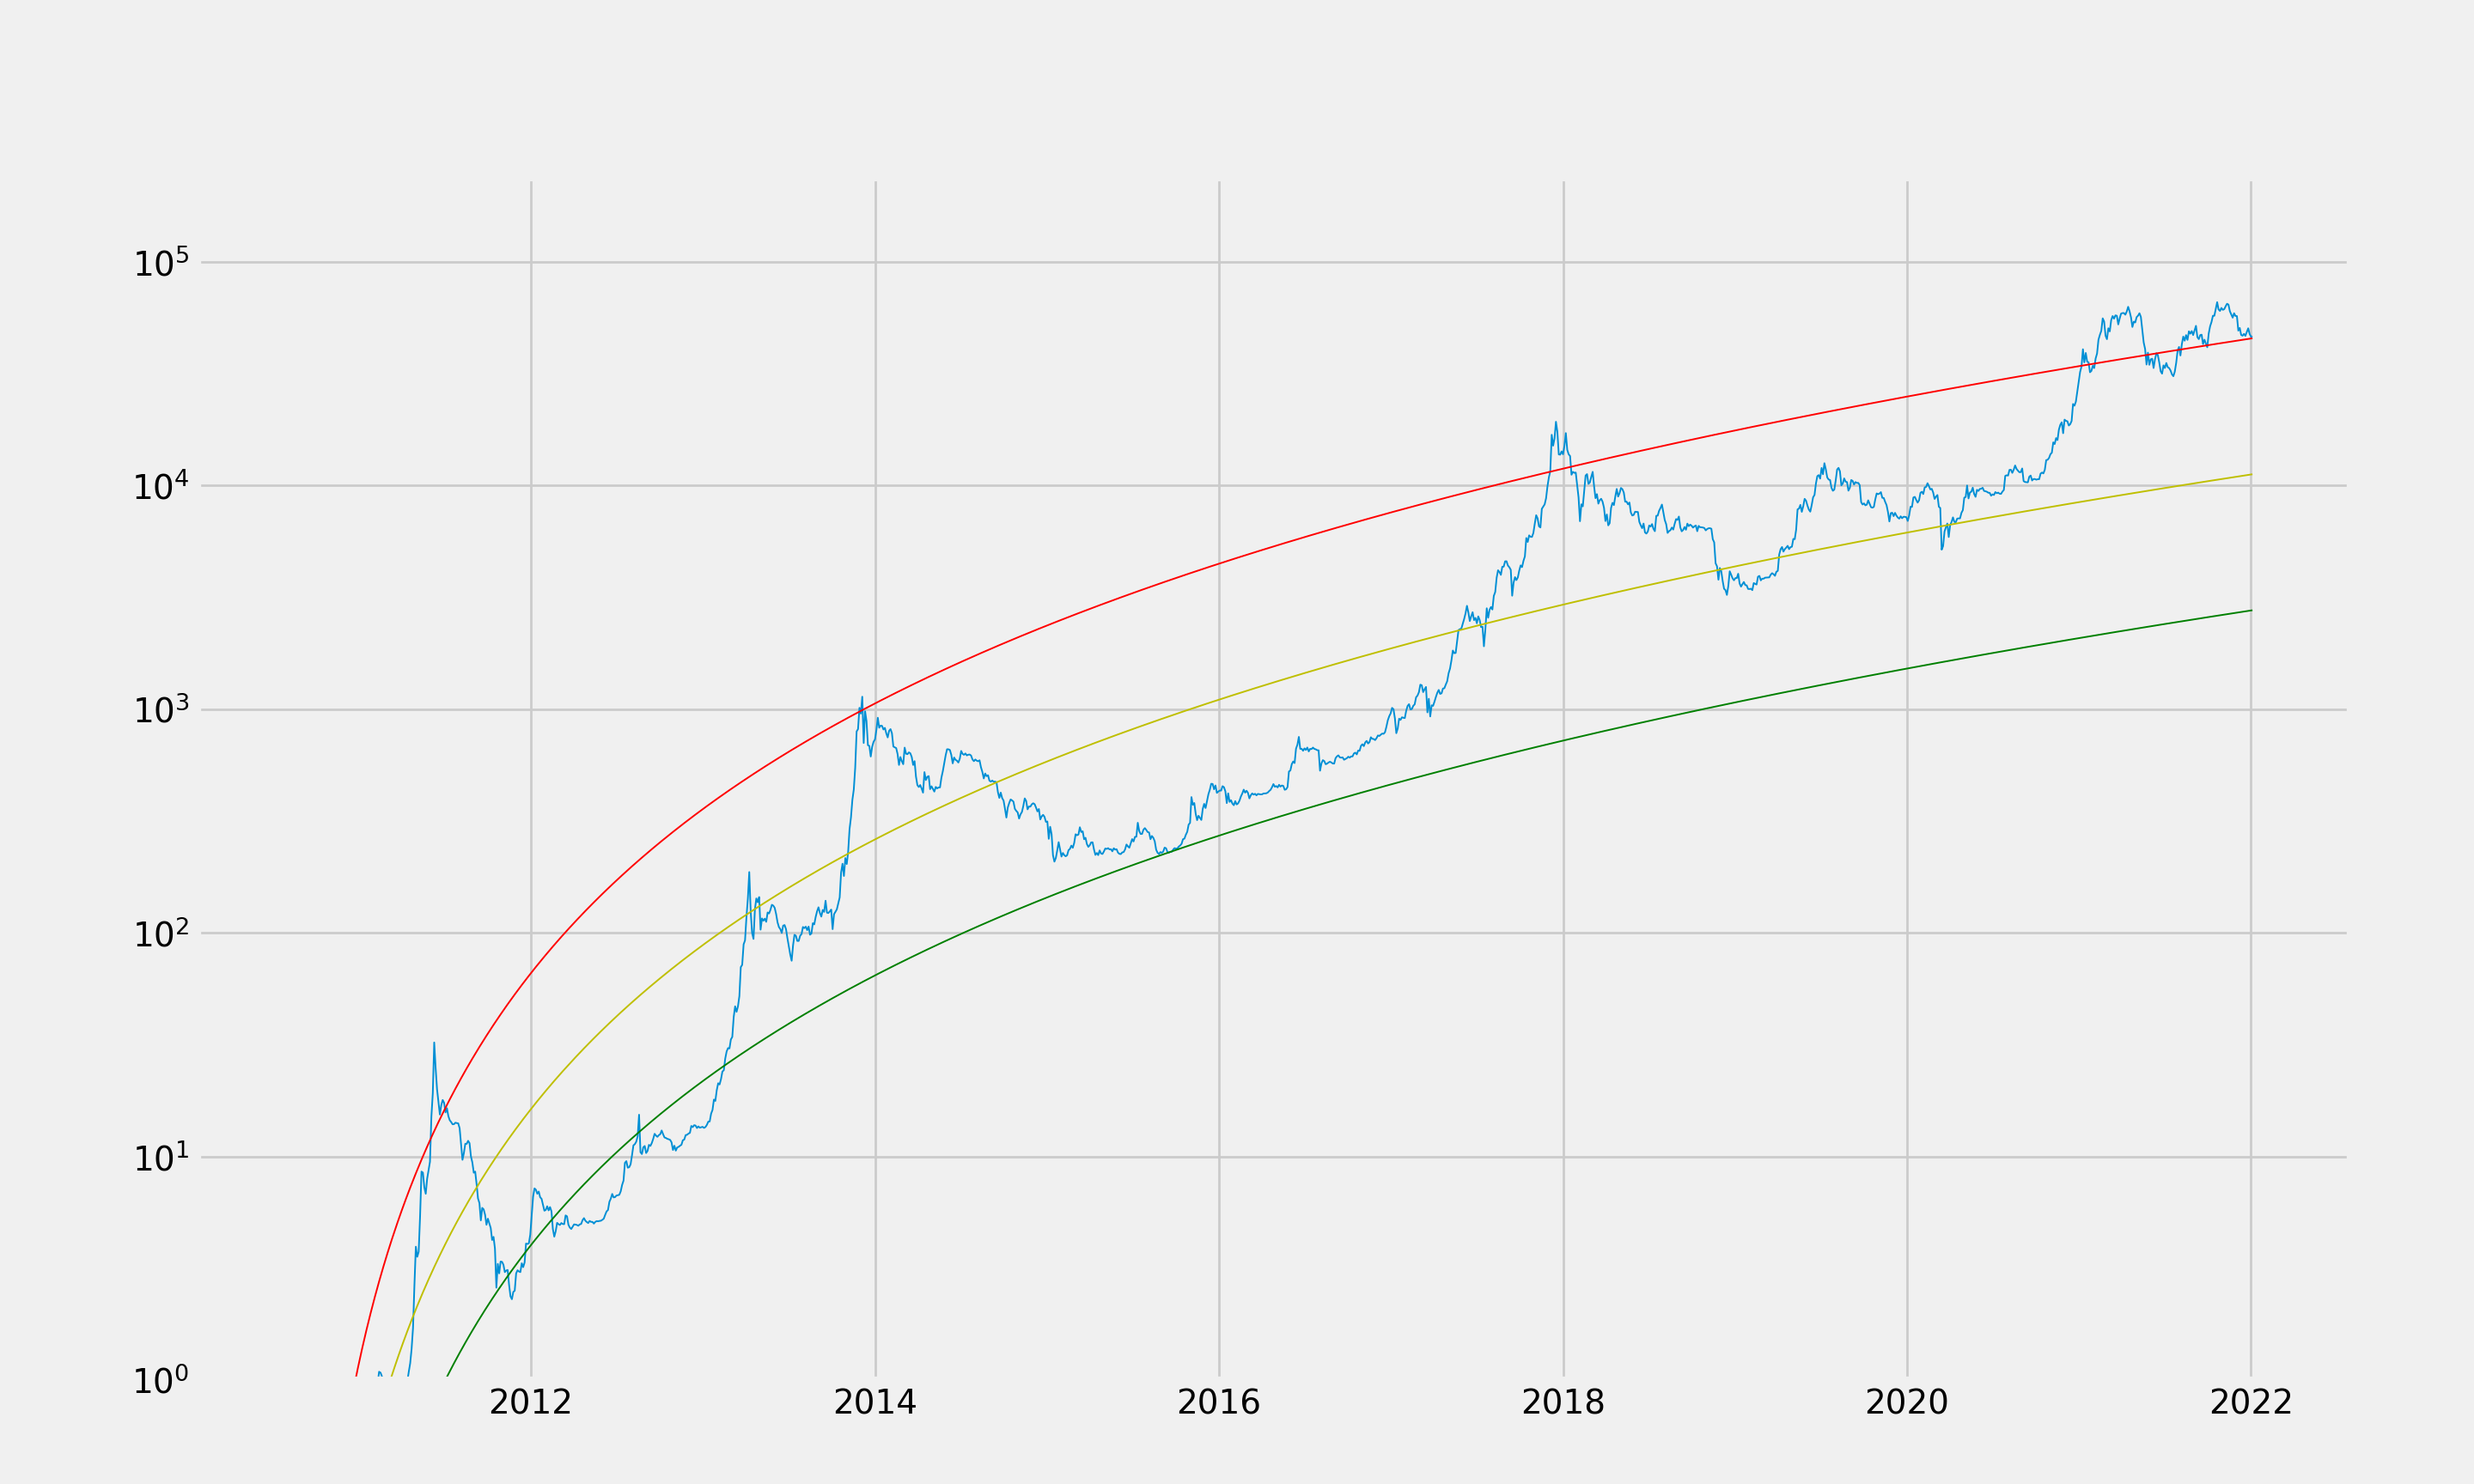
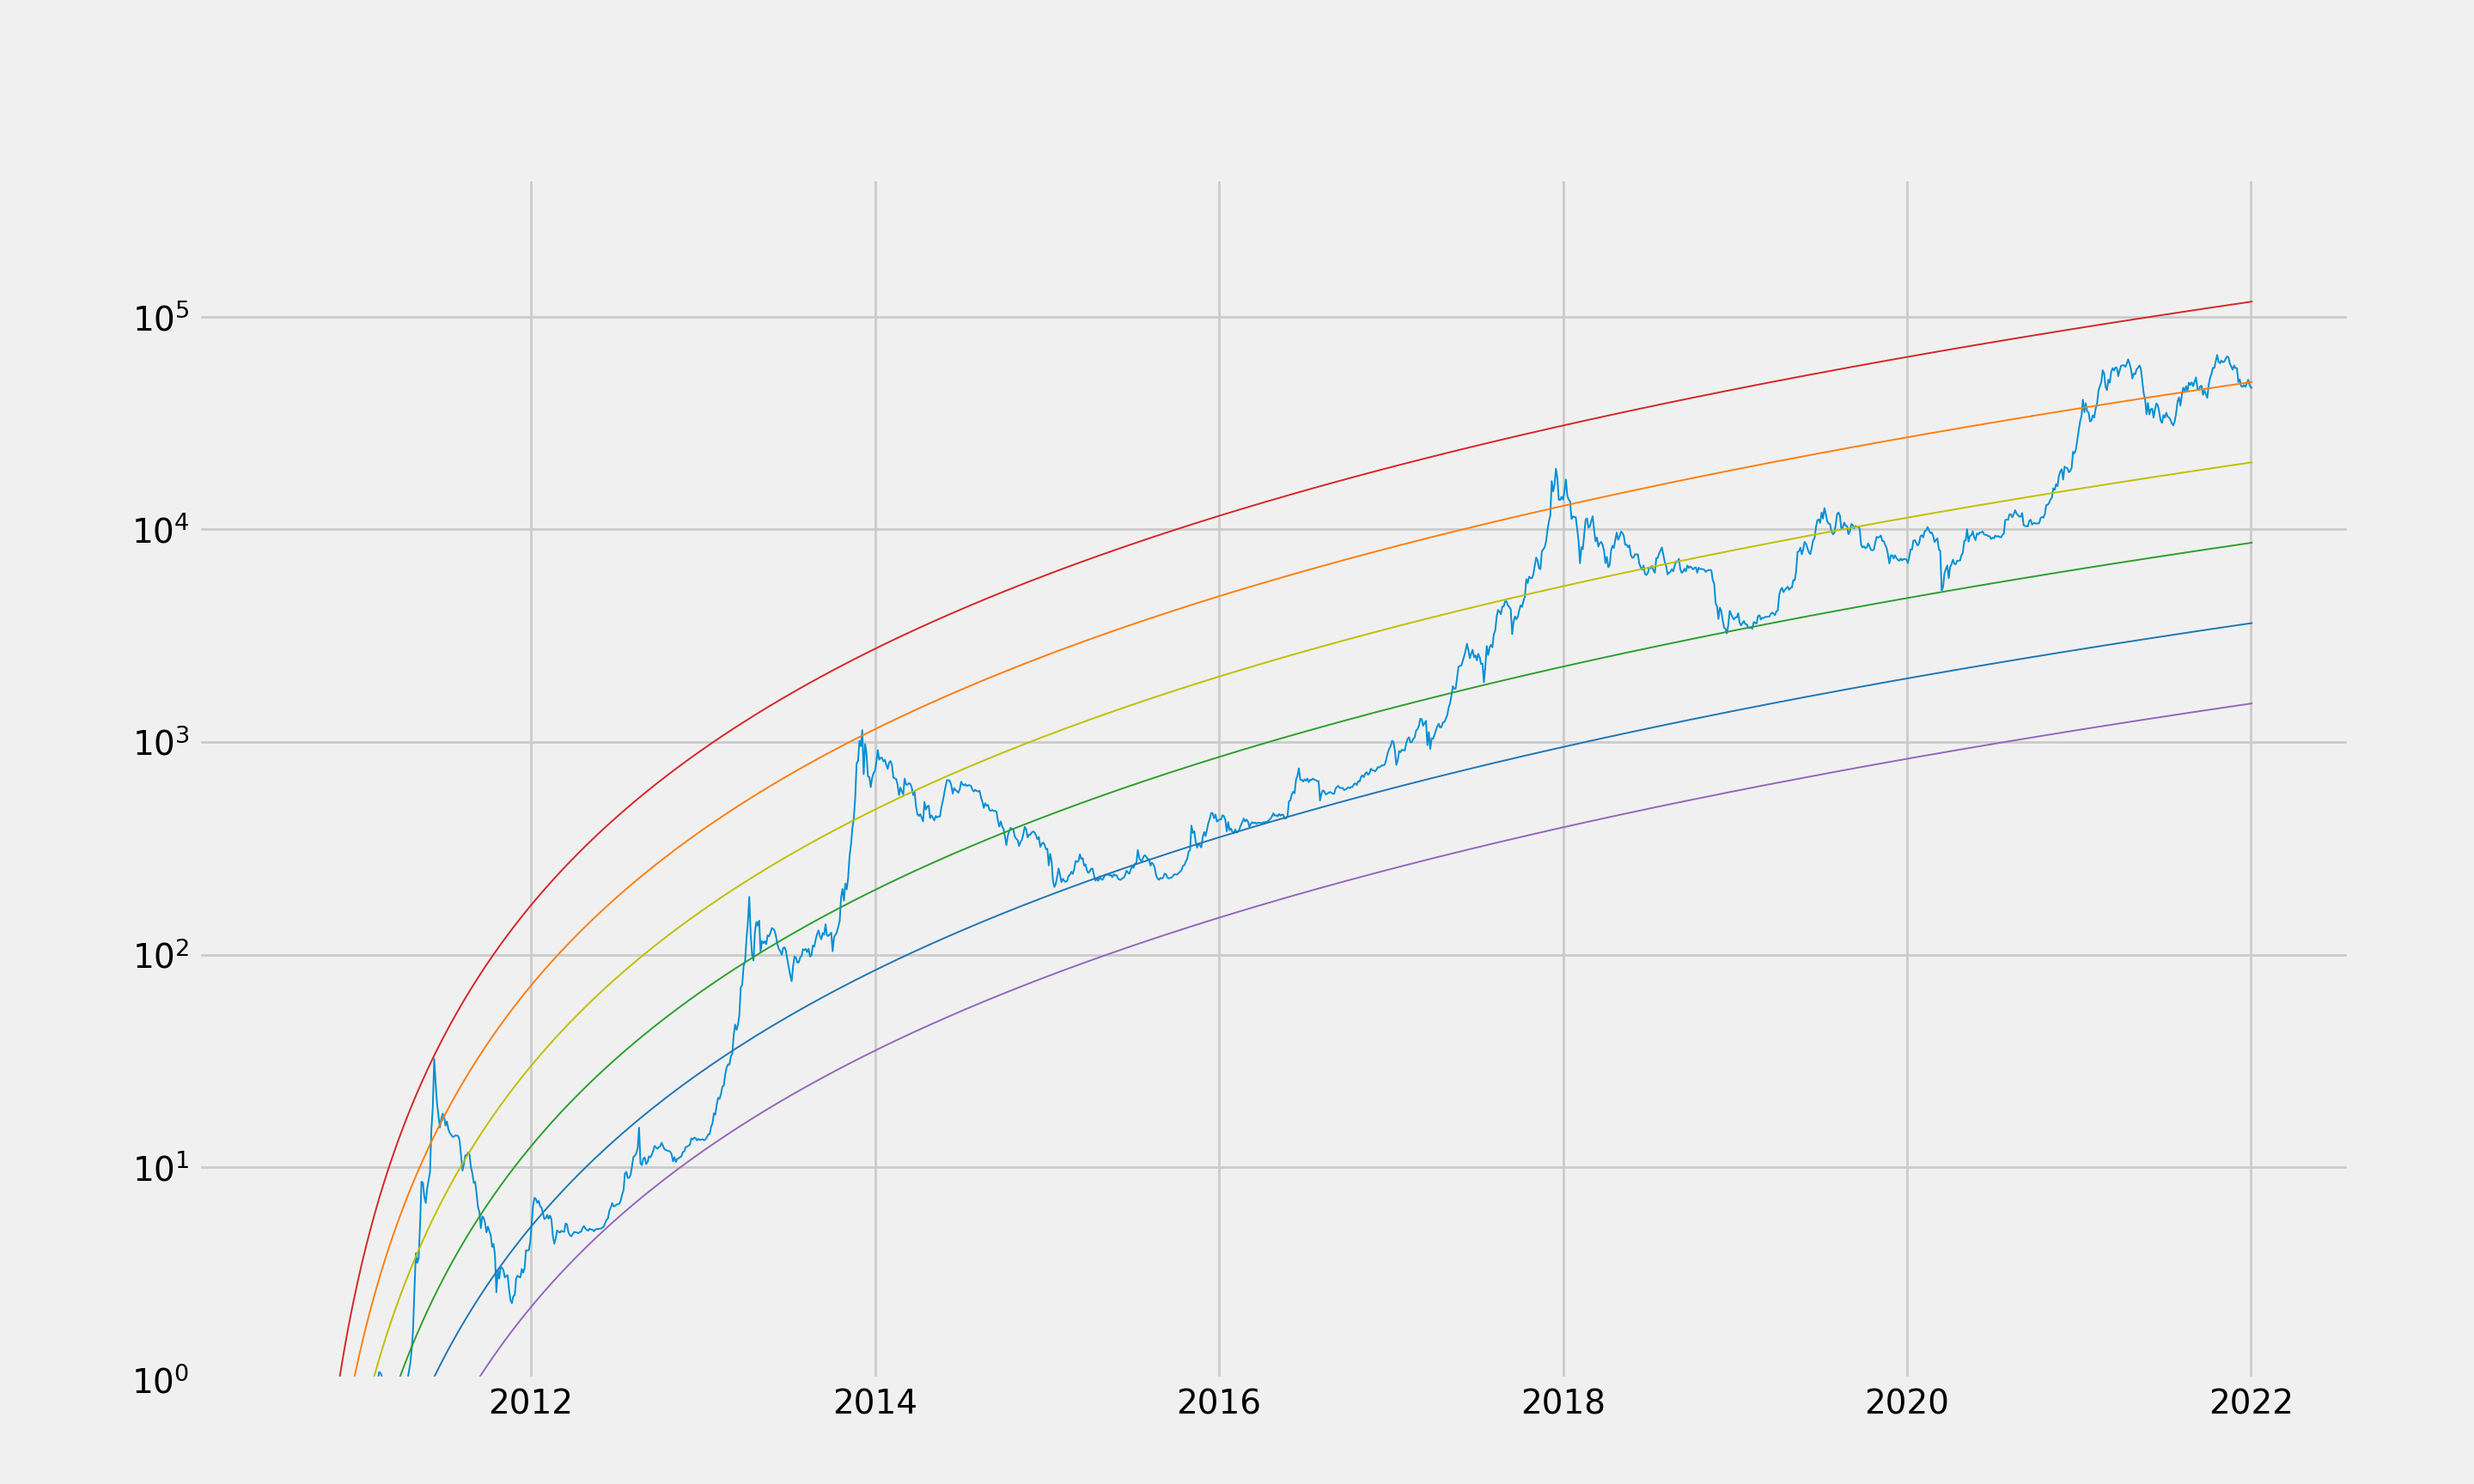
Add files via upload

diff --git a/logarithmic_regression.py b/logarithmic_regression.py
@@ -23,9 +23,11 @@ fitted_y_data = log_reg(x_data, opt[0], opt[1])
 plt.style.use("fivethirtyeight")
 
 plt.semilogy(dataframe[date], dataframe[value], linewidth=0.7)
-plt.plot(dataframe[date], np.exp(fitted_y_data + (-1.4)), color='g', linewidth=0.7)
-plt.plot(dataframe[date], np.exp(fitted_y_data), color='y', linewidth=0.7)
-plt.plot(dataframe[date], np.exp(fitted_y_data + 1.4), color='r', linewidth=0.7)
+
+num = -2
+for col in ['tab:purple','tab:blue','tab:green','y','tab:orange','tab:red']:
+    plt.plot(dataframe[date], np.exp(fitted_y_data + num), color=col, linewidth=0.7)
+    num += 0.87
 
 plt.ylim(bottom = 1)
 plt.show()
